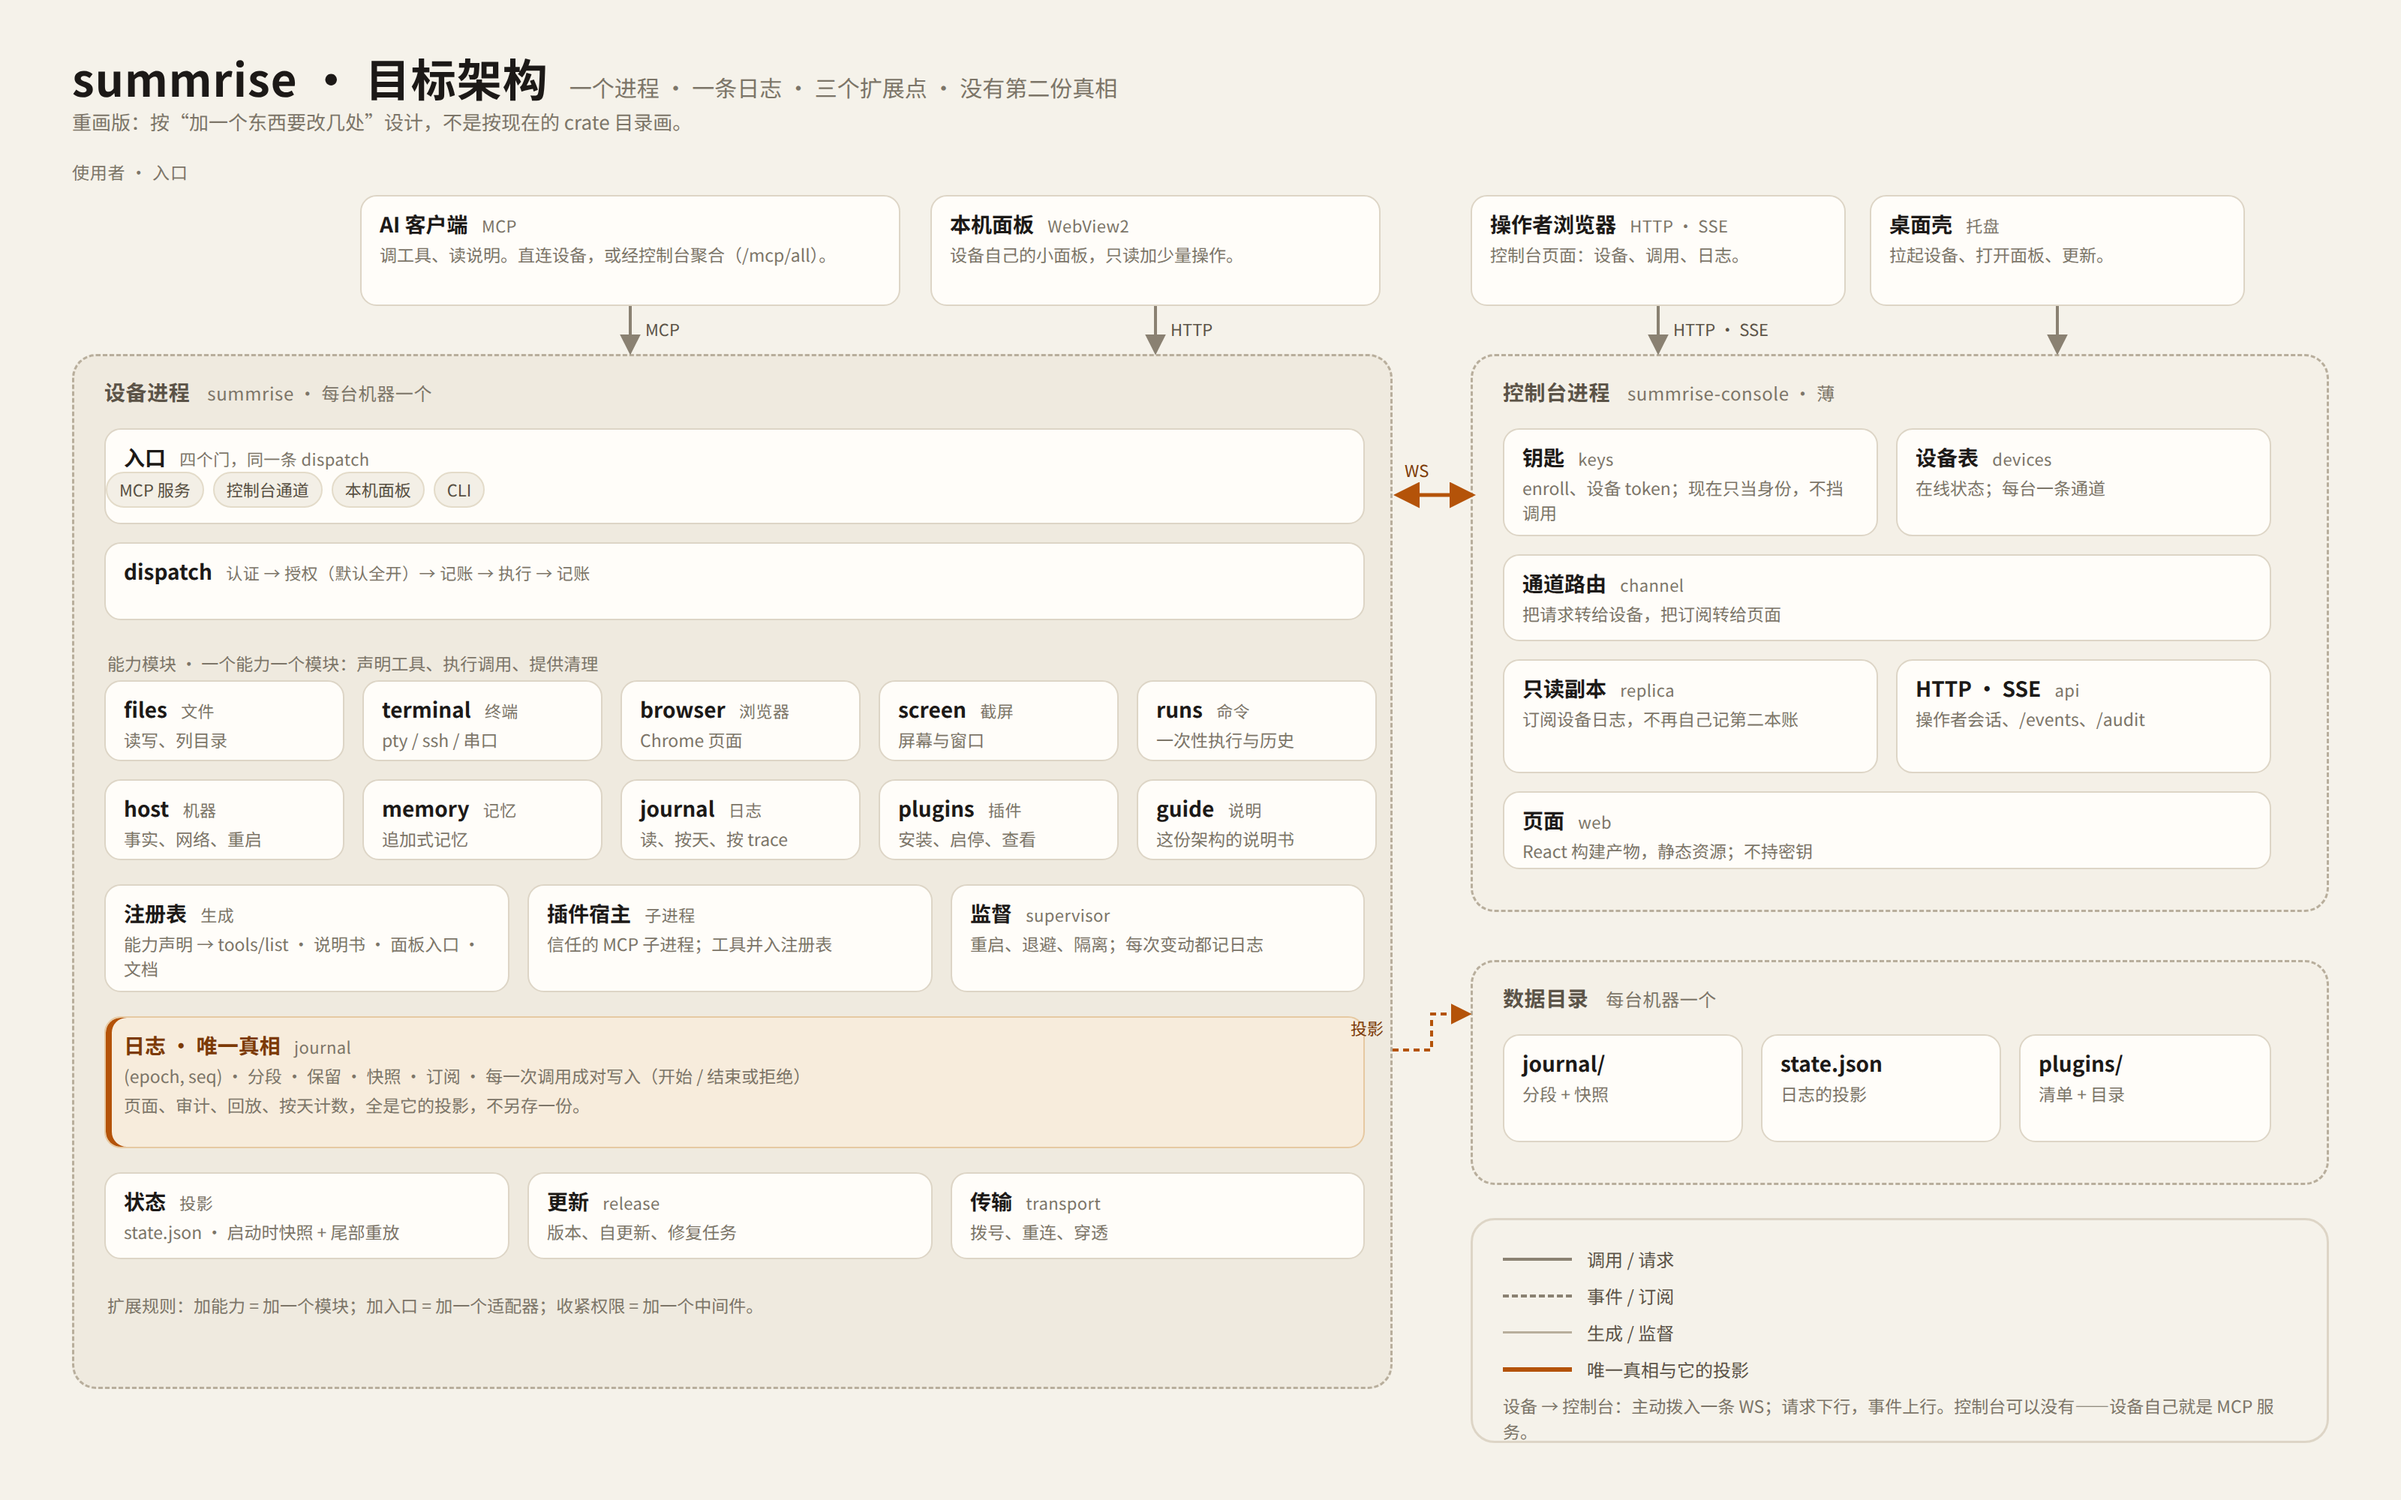
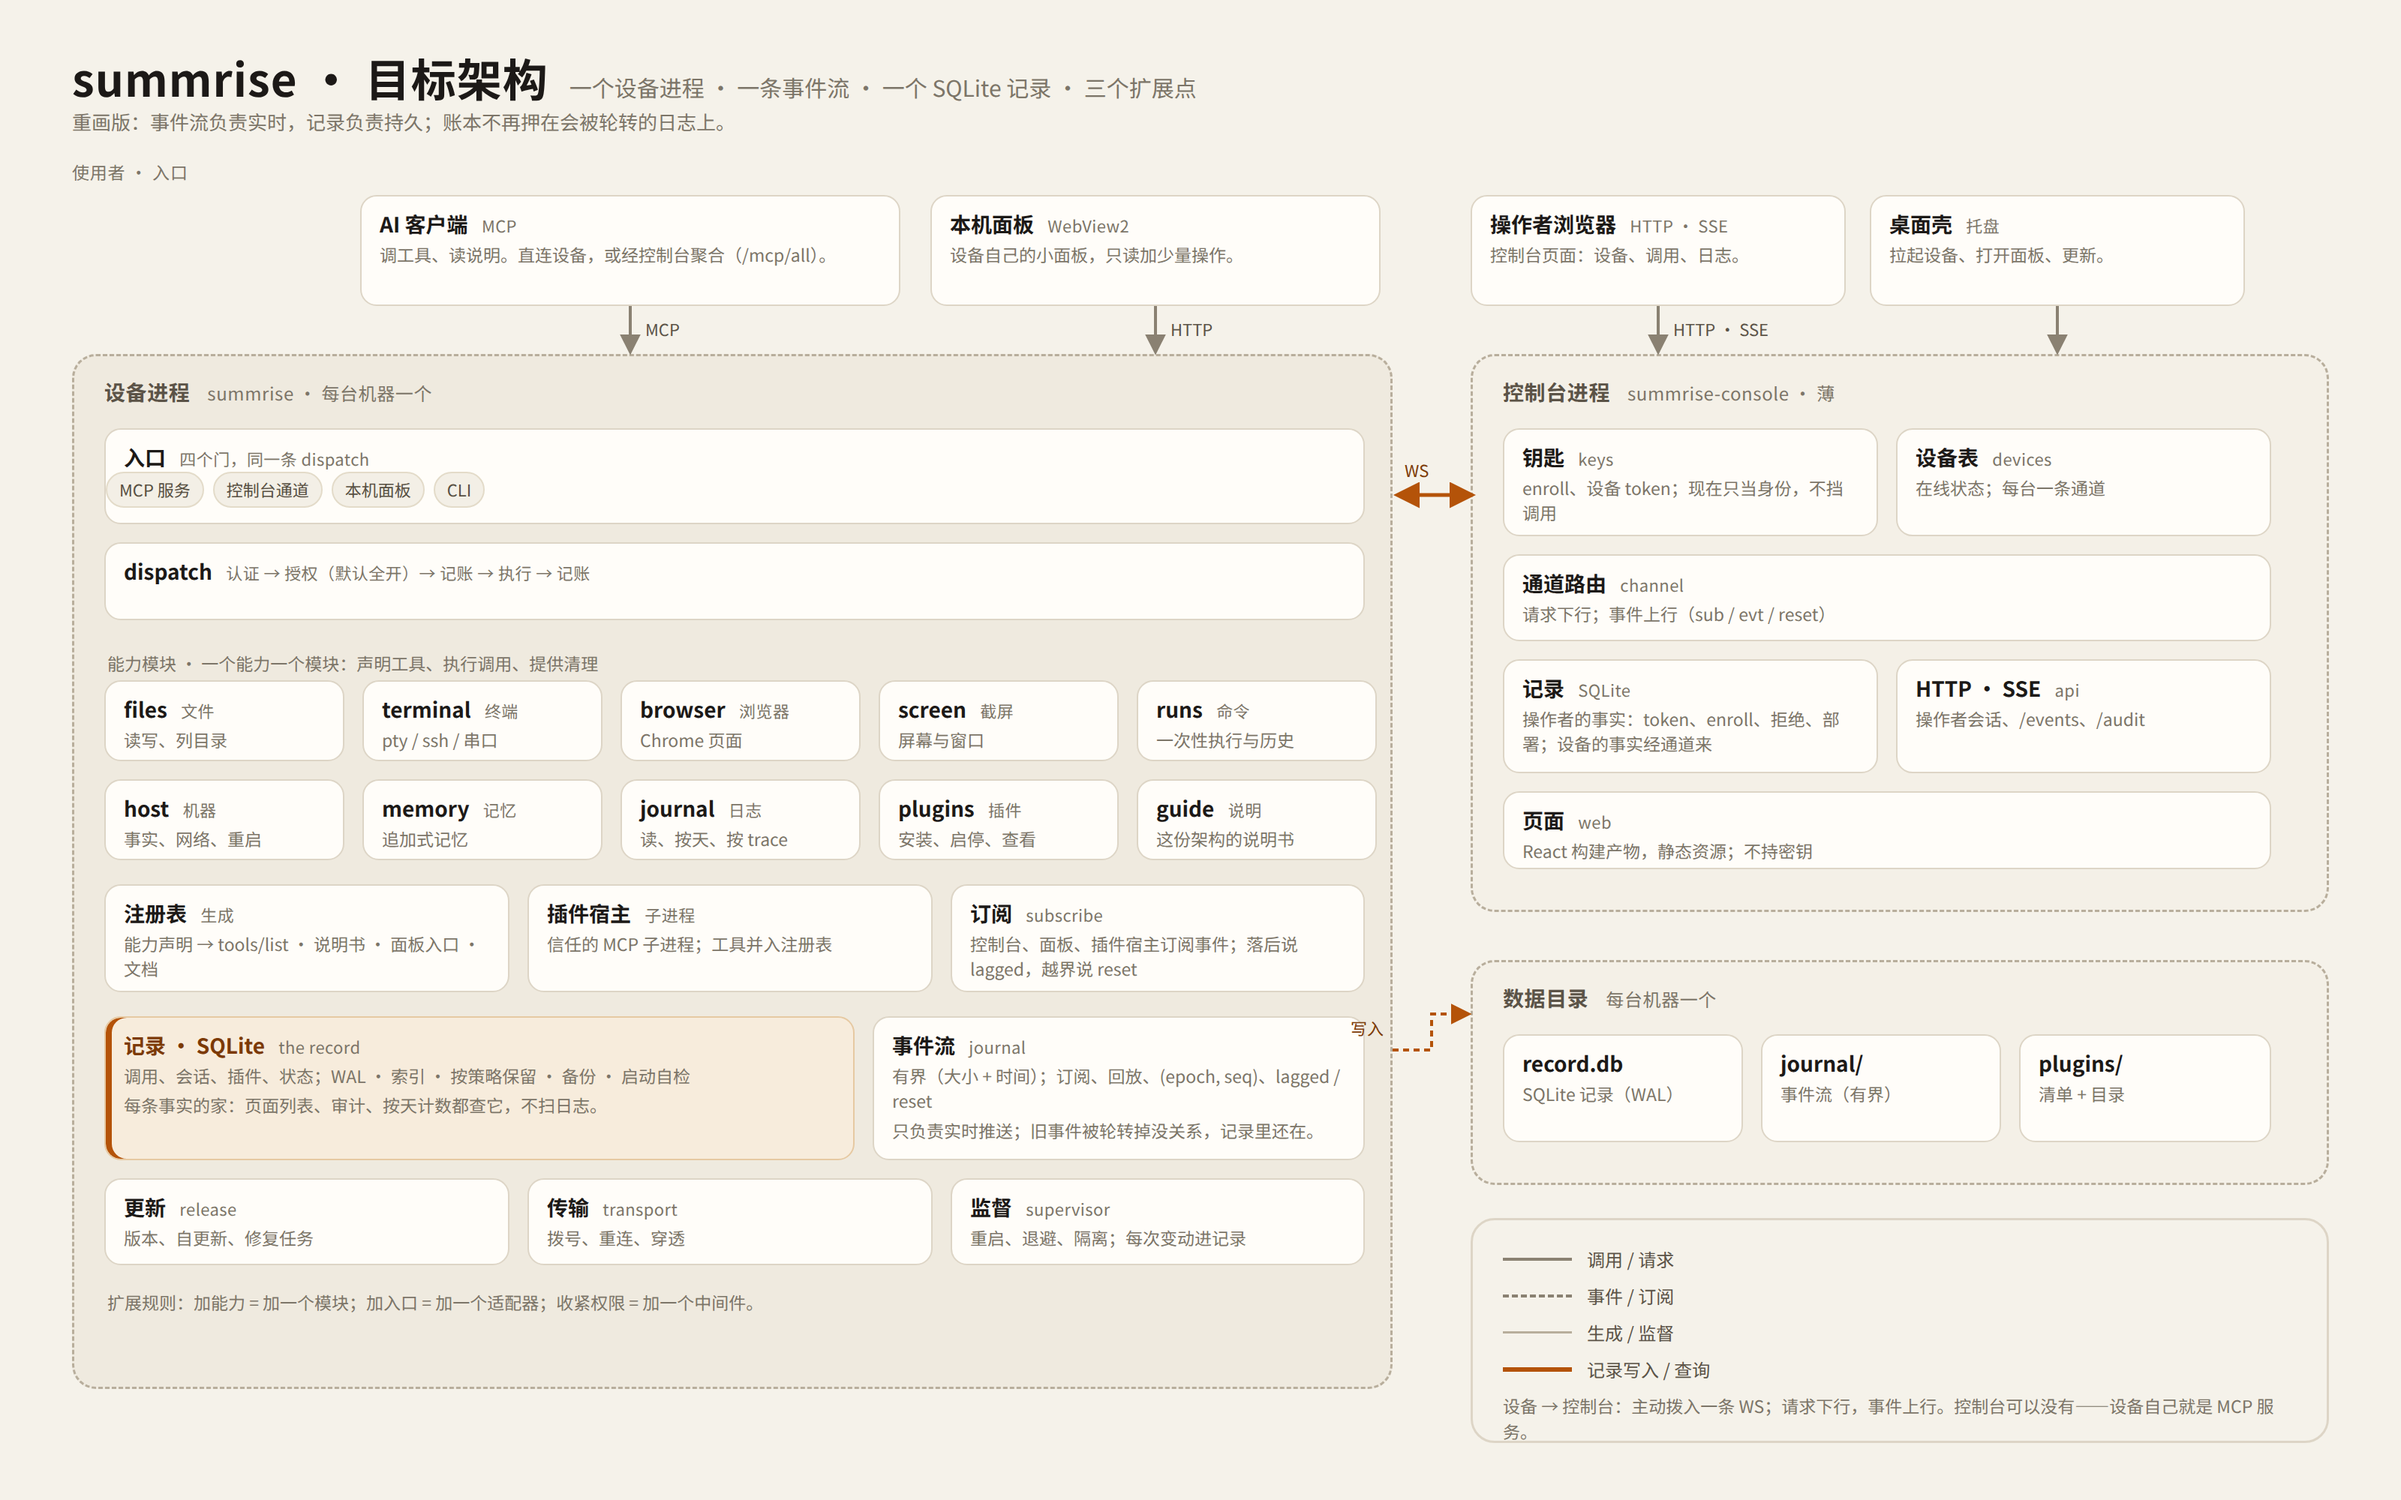
docs: the record contract, not its engine; the stream keeps its subscriptions

diff --git a/docs/design/architecture-target-proposal.html b/docs/design/architecture-target-proposal.html
@@ -58,8 +58,8 @@
 <body>
 <div class="canvas">
 
-  <div class="h1">summrise · 目标架构<small>一个进程 · 一条日志 · 三个扩展点 · 没有第二份真相</small></div>
-  <div class="sub">重画版：按“加一个东西要改几处”设计，不是按现在的 crate 目录画。</div>
+  <div class="h1">summrise · 目标架构<small>一个设备进程 · 一条事件流 · 一个 SQLite 记录 · 三个扩展点</small></div>
+  <div class="sub">重画版：事件流负责实时，记录负责持久；账本不再押在会被轮转的日志上。</div>
 
   <!-- 使用者与入口 -->
   <div class="note" style="left:48px; top:106px; letter-spacing:.4px;">使用者 · 入口</div>
@@ -124,30 +124,36 @@
       <div class="d">信任的 MCP 子进程；工具并入注册表</div>
     </div>
     <div class="card" style="left:584px; top:352px; width:276px; height:72px;">
-      <div class="t">监督 <en>supervisor</en></div>
-      <div class="d">重启、退避、隔离；每次变动都记日志</div>
+      <div class="t">订阅 <en>subscribe</en></div>
+      <div class="d">控制台、面板、插件宿主订阅事件；落后说 lagged，越界说 reset</div>
     </div>
 
-    <div class="card accent" style="left:20px; top:440px; width:840px; height:88px;">
-      <div class="t">日志 · 唯一真相 <en>journal</en></div>
-      <div class="d">(epoch, seq) · 分段 · 保留 · 快照 · 订阅 · 每一次调用成对写入（开始 / 结束或拒绝）</div>
-      <div class="d">页面、审计、回放、按天计数，全是它的投影，不另存一份。</div>
+    <div class="card accent" style="left:20px; top:440px; width:500px; height:96px;">
+      <div class="t">记录 · SQLite <en>the record</en></div>
+      <div class="d">调用、会话、插件、状态；WAL · 索引 · 按策略保留 · 备份 · 启动自检</div>
+      <div class="d">每条事实的家：页面列表、审计、按天计数都查它，不扫日志。</div>
     </div>
 
-    <div class="card" style="left:20px;  top:544px; width:270px; height:58px;">
-      <div class="t">状态 <en>投影</en></div>
-      <div class="d">state.json · 启动时快照 + 尾部重放</div>
+    <div class="card" style="left:532px; top:440px; width:328px; height:96px;">
+      <div class="t">事件流 <en>journal</en></div>
+      <div class="d">有界（大小 + 时间）；订阅、回放、(epoch, seq)、lagged / reset</div>
+      <div class="d">只负责实时推送；旧事件被轮转掉没关系，记录里还在。</div>
     </div>
-    <div class="card" style="left:302px; top:544px; width:270px; height:58px;">
+
+    <div class="card" style="left:20px;  top:548px; width:270px; height:58px;">
       <div class="t">更新 <en>release</en></div>
       <div class="d">版本、自更新、修复任务</div>
     </div>
-    <div class="card" style="left:584px; top:544px; width:276px; height:58px;">
+    <div class="card" style="left:302px; top:548px; width:270px; height:58px;">
       <div class="t">传输 <en>transport</en></div>
       <div class="d">拨号、重连、穿透</div>
     </div>
+    <div class="card" style="left:584px; top:548px; width:276px; height:58px;">
+      <div class="t">监督 <en>supervisor</en></div>
+      <div class="d">重启、退避、隔离；每次变动进记录</div>
+    </div>
 
-    <div class="note" style="left:22px; top:624px;">扩展规则：加能力 = 加一个模块；加入口 = 加一个适配器；收紧权限 = 加一个中间件。</div>
+    <div class="note" style="left:22px; top:622px;">扩展规则：加能力 = 加一个模块；加入口 = 加一个适配器；收紧权限 = 加一个中间件。</div>
   </div>
 
   <!-- 控制台进程 -->
@@ -165,12 +171,12 @@
 
     <div class="card" style="left:20px; top:132px; width:512px; height:58px;">
       <div class="t">通道路由 <en>channel</en></div>
-      <div class="d">把请求转给设备，把订阅转给页面</div>
+      <div class="d">请求下行；事件上行（sub / evt / reset）</div>
     </div>
 
     <div class="card" style="left:20px; top:202px; width:250px; height:76px;">
-      <div class="t">只读副本 <en>replica</en></div>
-      <div class="d">订阅设备日志，不再自己记第二本账</div>
+      <div class="t">记录 <en>SQLite</en></div>
+      <div class="d">操作者的事实：token、enroll、拒绝、部署；设备的事实经通道来</div>
     </div>
     <div class="card" style="left:282px; top:202px; width:250px; height:76px;">
       <div class="t">HTTP · SSE <en>api</en></div>
@@ -186,8 +192,8 @@
   <!-- 数据目录 -->
   <div class="proc" style="left:980px; top:640px; width:572px; height:150px; background:var(--panel2);">
     <div class="ptitle">数据目录 <em>每台机器一个</em></div>
-    <div class="card" style="left:20px; top:48px; width:160px; height:72px;"><div class="t">journal/</div><div class="d">分段 + 快照</div></div>
-    <div class="card" style="left:192px; top:48px; width:160px; height:72px;"><div class="t">state.json</div><div class="d">日志的投影</div></div>
+    <div class="card" style="left:20px; top:48px; width:160px; height:72px;"><div class="t">record.db</div><div class="d">SQLite 记录（WAL）</div></div>
+    <div class="card" style="left:192px; top:48px; width:160px; height:72px;"><div class="t">journal/</div><div class="d">事件流（有界）</div></div>
     <div class="card" style="left:364px; top:48px; width:168px; height:72px;"><div class="t">plugins/</div><div class="d">清单 + 目录</div></div>
   </div>
 
@@ -197,7 +203,7 @@
       <div class="row"><span class="sw"></span>调用 / 请求</div>
       <div class="row"><span class="sw dash"></span>事件 / 订阅</div>
       <div class="row"><span class="sw thin"></span>生成 / 监督</div>
-      <div class="row"><span class="sw orange"></span>唯一真相与它的投影</div>
+      <div class="row"><span class="sw orange"></span>记录写入 / 查询</div>
       <div class="note" style="margin-top:6px; position:static; font-size:11.5px;">设备 → 控制台：主动拨入一条 WS；请求下行，事件上行。控制台可以没有——设备自己就是 MCP 服务。</div>
     </div>
   </div>
@@ -234,7 +240,7 @@
 
     <!-- 日志 -> 数据目录（投影） -->
     <path d="M 928 700 L 954 700 L 954 676 L 978 676" fill="none" stroke="#b45309" stroke-width="2" stroke-dasharray="4 3" marker-end="url(#ao)"/>
-    <text x="900" y="690" font-size="11" fill="#7c3a06">投影</text>
+    <text x="900" y="690" font-size="11" fill="#7c3a06">写入</text>
   </svg>
 
 </div>

diff --git a/docs/design/architecture-v2-2026-11-13.md b/docs/design/architecture-v2-2026-11-13.md
@@ -30,7 +30,24 @@ decision that replaces it is D1.
 
 ### D1 — Two jobs, two stores
 
-| | stream (`journal`) | record (`SQLite`) |
+**The contract is the architecture; the engine is not.** A record here must: append a unit of work in
+one transaction; list and paginate by time, tool, token, device and status; aggregate a day; find a row
+by trace; delete by a retention policy; back itself up and restore; check its own integrity at boot; and
+refuse to be written by more than one process. Those requirements come from the product ("record and
+brake"), not from a database vendor, and any engine that meets them is acceptable.
+
+SQLite is the **default engine** because it meets them cheaply on Windows: transactions and WAL crash
+recovery, indexes for the queries above, one file to copy for a backup (`VACUUM INTO`), `quick_check`,
+no server to operate, bundled into the binary. It is not a load-bearing architectural choice: the
+boundary rule is that **SQL lives only in the `store` module**, and every caller uses record operations
+(`append_call`, `list_calls`, `day_counts`, `find_trace`, `prune`, `backup`, `check`). Replacing the
+engine is replacing that module plus an export/import; no capability, entry or page changes.
+
+The one thing the interface must not become is a generic CRUD layer. It names the product's questions;
+when the questions change, the interface changes with them. That is cheaper than an abstraction built
+to anticipate an engine swap that may never happen.
+
+| | stream (`journal`) | record (default engine: SQLite) |
 |---|---|---|
 | what it is | append-only events, fsync, segmented | transactional tables, WAL, indexed |
 | what it is for | live subscriptions, replay of recent events | the record: calls, sessions, plugins, tokens, deploys |
@@ -46,9 +63,26 @@ console refused). The device's database is the home of machine-side facts (what 
 with what outcome). A proxied call appears in both as two *perspectives* joined by `trace.call` — not as
 two copies of one fact.
 
-Why SQLite and not JSON Lines: transactions, WAL crash recovery, indexes for "show me the calls that
-failed today", a single file to back up (`VACUUM INTO`), `PRAGMA integrity_check`, and no server to
-operate. It compiles into the binary (bundled), so Windows still has no runtime dependency.
+Why not JSON Lines: no transactions, no indexes, no integrity check, and a rotation that silently
+drops the oldest rows — which is exactly the failure this design replaces. The engine is the cheap part;
+the guarantees are the point.
+
+### D1b — The bus stays, as the stream
+
+Nothing about subscriptions is removed. The `journal` module keeps the whole event mechanism the
+product already uses: `subscribe(from_seq)` with replay-then-live, the channel's `sub` / `evt` / `reset`
+frames, `lagged` when a subscriber falls behind, terminal follow on a session's notifier, and the page's
+SSE. The event names stay too: `call.started`, `call.finished` / `call.denied`, `session.opened` /
+`closed`, the plugin lifecycle, state changes.
+
+What changes is its job. The stream is published **after** the record commits (an outbox, not a second
+home). A subscriber that lags or is reset recovers by querying the record — not by replaying a stream
+that retention may have shortened. That is what lets the stream be small; it is also why the console can
+stop being the second writer of a call and become a reader of the device's perspective.
+
+The crate is gone, the mechanism is not: `bus` becomes `device/src/journal`, owned by one process. It
+stops being a general-purpose library the console also links, because there is now only one writer and
+one reader shape.
 
 ### D2 — Every fact carries its identity
 
